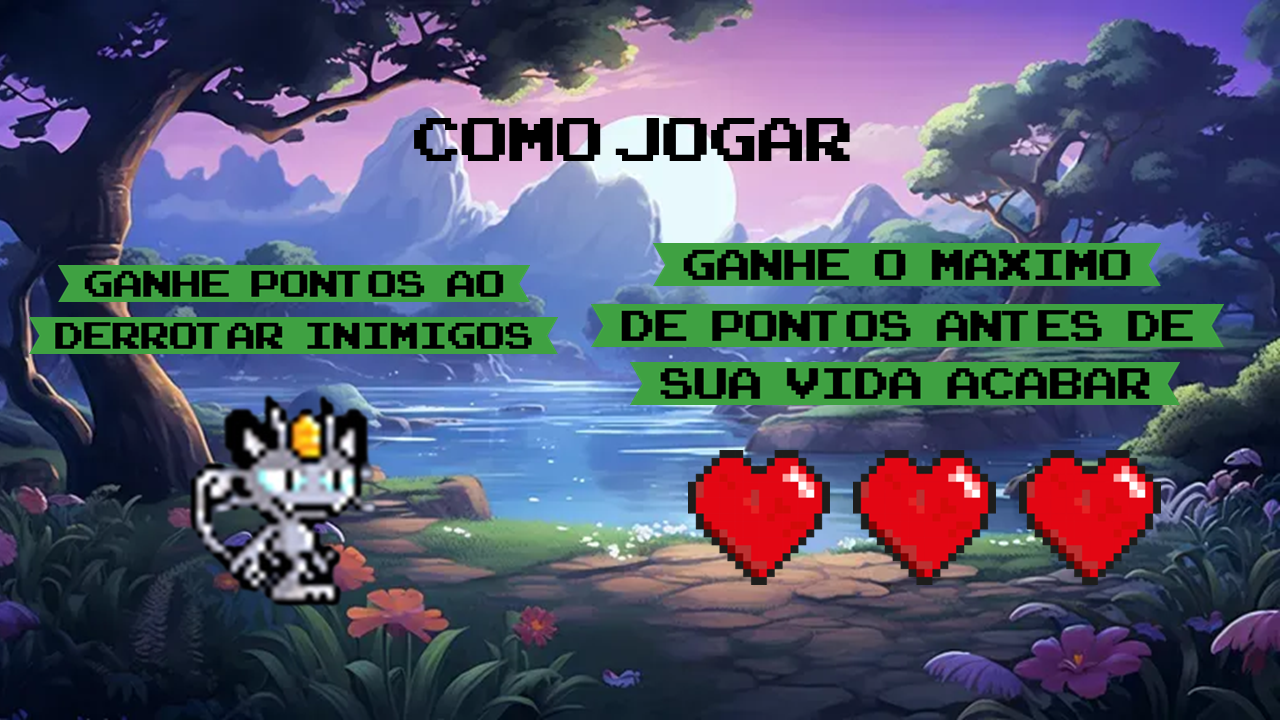
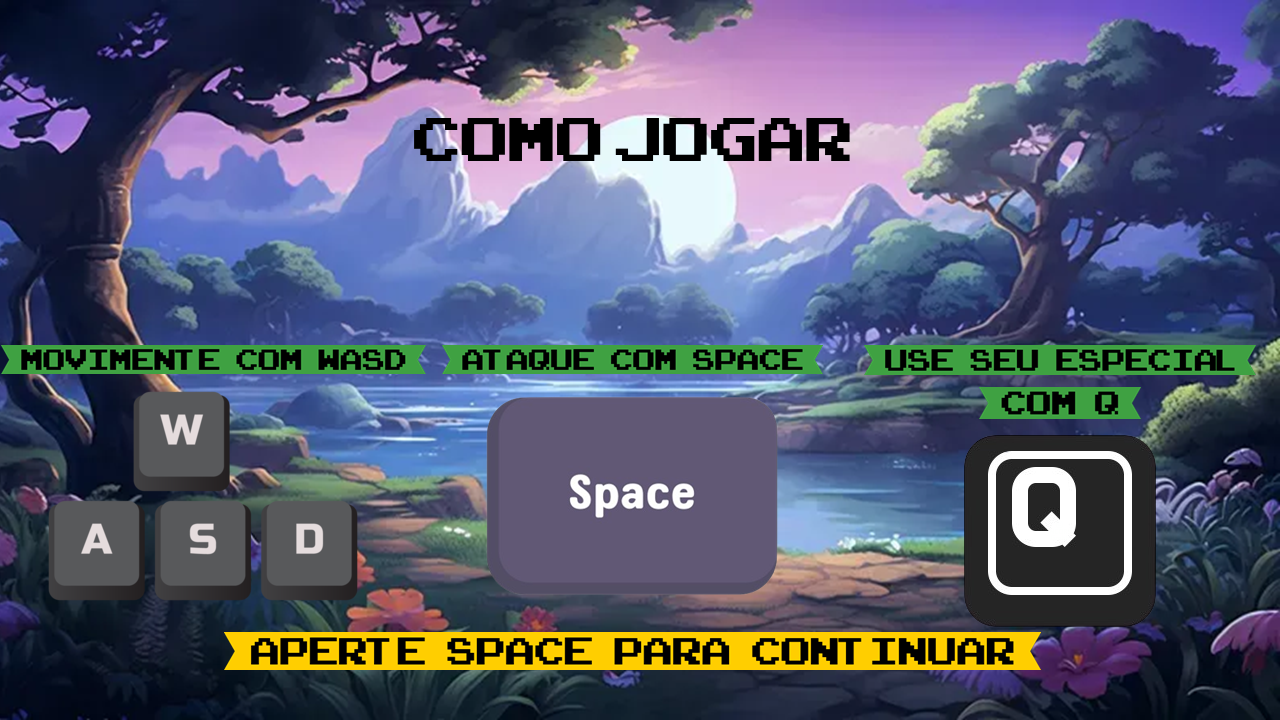
tutorial 3 e dificuldade maior ᕕ( ᐛ )ᕗ

diff --git a/jogo.py b/jogo.py
@@ -27,6 +27,7 @@ GAME = 1
 QUIT = 2
 INSTR = 3
 INSTR2 = 4
+INSTR3 = 6
 OVER = 5
 # Define algumas variáveis com as cores básicas
 WHITE = (255, 255, 255)
@@ -40,7 +41,7 @@ esquerda_enemy = False
 score = 0
 inim_add = 0
 reforços = 0
-vidas = 1000
+vidas = 3
 
 # Define o jogador
 
@@ -69,11 +70,11 @@ class player(pygame.sprite.Sprite):
         # Controle de ticks de animação: troca de imagem a cada self.frame_ticks milissegundos.
         self.frame_ticks = 150  # Prestar atenção nesse parametro, pode mudar a velocidade do jogo
 
-        # Só será possível atacar uma vez a cada 600 milissegundos
+        # Só será possível atacar uma vez a cada 500 milissegundos
         self.last_shot = pygame.time.get_ticks()
-        self.shoot_ticks = 600
+        self.shoot_ticks = 500
         self.last_ult = pygame.time.get_ticks()
-        self.ult_ticks = 4000
+        self.ult_ticks = 5000
 
     def update(self):
         # Verifica o tick atual.
@@ -519,6 +520,45 @@ def instr_screen2(screen):
 
             if event.type == pygame.KEYUP:
                 if event.key == pygame.K_SPACE:
+                    state = INSTR3
+                    running = False
+                if event.key == pygame.K_ESCAPE:
+                    state = QUIT
+                    running = False
+
+        # A cada loop, redesenha o fundo e os sprites
+        screen.fill(BLACK)
+        screen.blit(instr2, instr2_rect)
+
+        # Depois de desenhar tudo, inverte o display.
+        pygame.display.flip()
+
+    return state
+
+def instr_screen3(screen):
+    # Variável para o ajuste de velocidade
+    clock = pygame.time.Clock()
+    
+    # Carrega o fundo da tela inicial
+    instr3 = pygame.image.load('assets/comojogar3.png').convert()
+    instr3_rect = instr3.get_rect()
+    instr3 = pygame.transform.scale(instr3, (altura, largura))
+
+    running = True
+    while running:
+
+        # Ajusta a velocidade do jogo.
+        clock.tick(fps)
+
+        # Processa os eventos (mouse, teclado, botão, etc).
+        for event in pygame.event.get():
+            # Verifica se foi fechado.
+            if event.type == pygame.QUIT:
+                state = QUIT
+                running = False
+
+            if event.type == pygame.KEYUP:
+                if event.key == pygame.K_SPACE:
                     state = GAME
                     running = False
                     pygame.mixer.music.pause()
@@ -531,7 +571,7 @@ def instr_screen2(screen):
 
         # A cada loop, redesenha o fundo e os sprites
         screen.fill(BLACK)
-        screen.blit(instr2, instr2_rect)
+        screen.blit(instr3, instr3_rect)
 
         # Depois de desenhar tudo, inverte o display.
         pygame.display.flip()
@@ -683,7 +723,7 @@ for _ in range(5):  # Ajusta a quantidade de inimigos
     enemies.add(new_enemy)
 
 hazards = pygame.sprite.Group()
-for i in range(6):
+for i in range(1):
     meteor = gastly(assets)
     all_sprites.add(meteor)
     hazards.add(meteor)
@@ -698,6 +738,8 @@ while game:
         state = instr_screen(window)
     elif state == INSTR2:
         state = instr_screen2(window)
+    elif state == INSTR3:
+        state = instr_screen3(window)
     elif state == GAME:
         clock.tick(fps)
         for event in pygame.event.get():
@@ -805,6 +847,10 @@ while game:
             m = Enemy(assets['Meowth'], assets['Meowth'], jogador)
             all_sprites.add(m)
             enemies.add(m)
+            meteor = gastly(assets)
+            all_sprites.add(meteor)
+            hazards.add(meteor)
+
         # ----- Gera saídas
         all_sprites.update()
         window.fill((0, 0, 0))  # Preenche com a cor preta 
